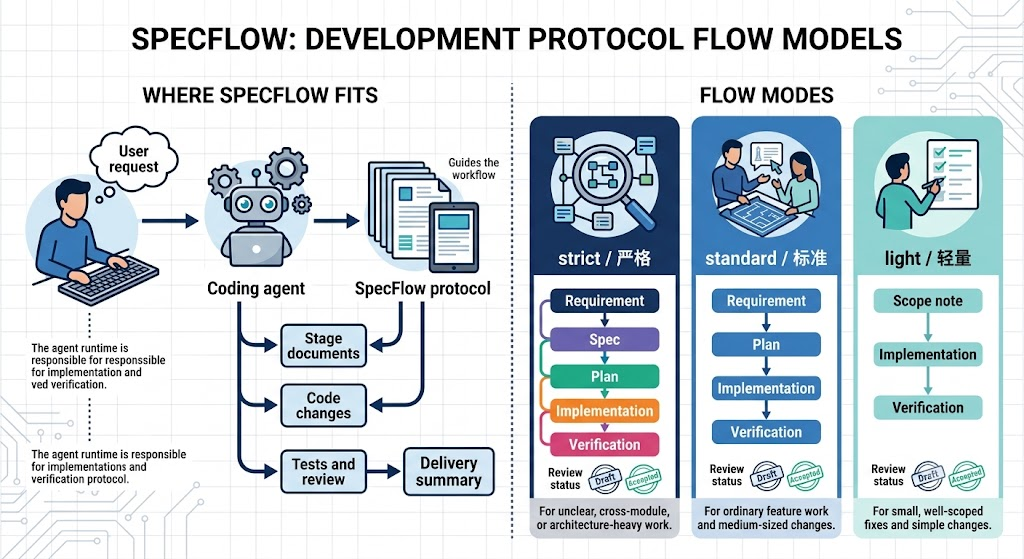
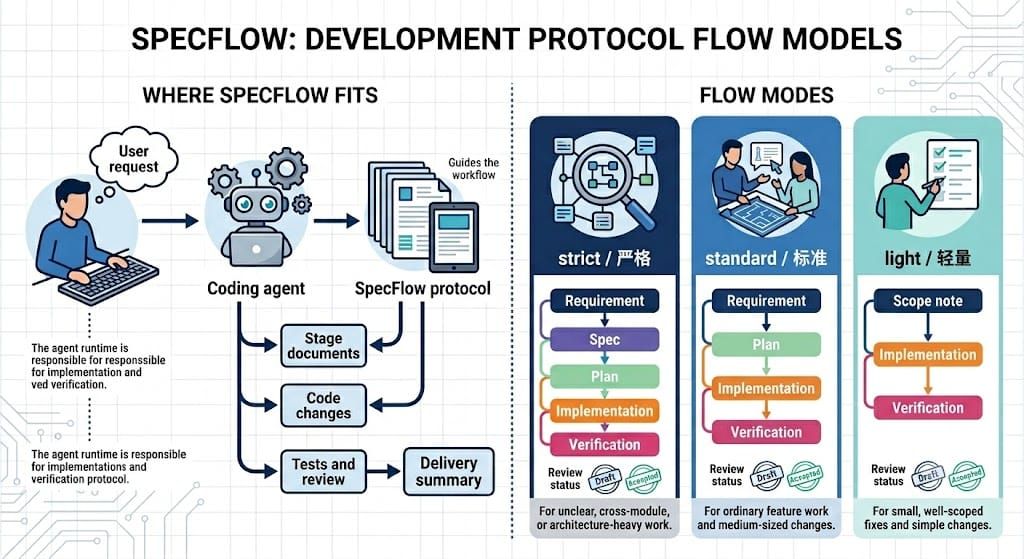
docs(specflow): clarify skill-first flow usage
- Reframe SpecFlow documentation around the agent skill as the primary interface instead of the CLI.
- Replace the light-mode "scope note" concept with a minimal Requirement record to keep all modes aligned on the same stage vocabulary.
- Document flow modes, stage transitions, review states, and handoff expectations in both English and Chinese READMEs.
- Update templates and flow diagram to match the revised Requirement-centered light mode.

diff --git a/.claude/skills/specflow/SKILL.md b/.claude/skills/specflow/SKILL.md
@@ -28,7 +28,6 @@ SpecFlow is a skill-first development protocol for coding agents. 它不是 Clau
 - `Requirement` / 需求 / 需求阶段
 - `Spec` / 规格 / 方案 / 规格阶段 / 方案阶段
 - `Plan` / 计划 / 计划阶段
-- `Scope note` / 范围说明 / 轻量范围 / scope 记录
 - `Implementation` / 实现 / 实施 / 开始实现 / 开发
 - `Verification` / 验证 / 验收 / 验证阶段
 
@@ -74,11 +73,11 @@ SpecFlow is a skill-first development protocol for coding agents. 它不是 Clau
 
 流程：
 
-1. Scope note / 范围说明
+1. Requirement / 需求
 2. Implementation / 实现
 3. Verification / 验证
 
-light / 轻量模式仍必须保留最小 scope note / 范围说明和 verification / 验证，避免变成无过程记录的直接实现。
+light / 轻量模式仍必须保留最小 requirement / 需求和 verification / 验证，避免变成无过程记录的直接实现。
 
 ## 文档位置
 
@@ -91,7 +90,7 @@ light / 轻量模式仍必须保留最小 scope note / 范围说明和 verificat
 
 同一功能的 requirement/spec/plan/verification 使用相同 `<yyyymmdd>-<feature>.md` 文件名，分别放在对应 stage 目录下。`<yyyymmdd>` 使用 8 位日期格式，例如 `20260609`；`<feature>` 用于表达需求或功能主题。
 
-standard / 标准模式可以不创建 `spec.md`。light / 轻量模式可以只创建最小 scope note / 范围说明和 `verification.md`；scope note 可以写在 `requirement.md` 中。
+standard / 标准模式可以不创建 `spec.md`。light / 轻量模式可以只创建最小 requirement / 需求和 `verification.md`；轻量需求仍写在 `docs/requirement/<yyyymmdd>-<feature>.md` 中。
 
 ## 文档隔离
 
@@ -117,7 +116,7 @@ standard / 标准模式可以不创建 `spec.md`。light / 轻量模式可以只
 
 ## 阶段流转规则
 
-- 始终告诉用户当前阶段和当前流程模式，优先使用“中文 + 英文”的形式，例如“当前：轻量模式 / light，范围说明 / Scope note”。
+- 始终告诉用户当前阶段和当前流程模式，优先使用“中文 + 英文”的形式，例如“当前：轻量模式 / light，需求 / Requirement”。
 - 默认聚焦当前阶段，直到用户接受或要求进入下一阶段。
 - 用户明确确认当前阶段时，将当前阶段文档 `Review status` 更新为 `Accepted`。
 - 用户明确要求进入后一阶段时，视为接受前一阶段；先将前一阶段文档 `Review status` 更新为 `Accepted`，再进入目标阶段。
@@ -127,14 +126,16 @@ standard / 标准模式可以不创建 `spec.md`。light / 轻量模式可以只
 
 ## Requirement / 需求阶段
 
-澄清要做什么和为什么做。
+澄清要做什么和为什么做。所有流程模式都使用 Requirement / 需求这一概念；light / 轻量模式只写短版需求，不向用户引入额外的阶段概念。
 
 职责：
 
 1. 创建或更新 `docs/requirement/<yyyymmdd>-<feature>.md`。
-2. 捕获 background、goals、non-goals、user scenarios、acceptance criteria、open questions、decisions 和 user review notes。
-3. 除非用户明确要求推进，否则不写 spec、plan 或产品代码。
-4. draft 完成后请求用户 review requirement；如果用户要求进入后一阶段，自动将 requirement 标记为 `Accepted`。
+2. strict / 严格模式和 standard / 标准模式捕获 background、goals、non-goals、user scenarios、acceptance criteria、open questions、decisions 和 user review notes。
+3. light / 轻量模式可以只记录目标、非目标、验收标准和风险/假设，但仍称为 Requirement / 需求。
+4. 除非用户明确要求推进，否则不写 spec、plan 或产品代码。
+5. draft 完成后请求用户 review requirement；如果用户要求进入后一阶段，自动将 requirement 标记为 `Accepted`。
+6. 向用户展示 requirement / 需求草稿时，除了总结已确认的需求，还必须显式提示仍需要用户关注的未决事项。这些事项包括但不限于：尚未确认的假设、影响方案选择的决策点、范围边界不清之处、验收标准中的模糊点、依赖外部条件的风险，以及可以继续推进但需要后续确认的问题。如果没有这类事项，应明确说明“暂无需要用户确认的未决事项”。
 
 ## Spec / 规格阶段
 
@@ -160,18 +161,7 @@ standard / 标准模式可以不创建 `spec.md`。light / 轻量模式可以只
 4. 如果前置 Requirement 或 Spec 不是 `Accepted`，但用户要求进入 Plan / 计划，则先将对应前置文档标记为 `Accepted`。
 5. 除非用户明确要求实现，否则不写产品代码。
 
-## Scope note / 范围说明阶段
-
-light / 轻量模式使用该阶段，用最小文档记录范围。
-
-职责：
-
-1. 创建或更新 `docs/requirement/<yyyymmdd>-<feature>.md`。
-2. 使用短版 scope note 即可，不必填完整 requirement 模板。
-3. 至少记录目标、非目标、验收标准和风险/假设。
-4. 如果用户要求开始实现，将 scope note / 范围说明标记为 `Accepted` 后进入 Implementation / 实现。
-
-light / 轻量模式推荐结构：
+light / 轻量模式推荐需求结构：
 
 ```markdown
 ## Goal
@@ -191,9 +181,9 @@ light / 轻量模式推荐结构：
 职责：
 
 1. 读取可用的 requirement/spec/plan 文档。
-2. 如果 Plan 缺失但当前是 light / 轻量模式，依据 scope note / 范围说明实现。
+2. 如果 Plan 缺失但当前是 light / 轻量模式，依据 requirement / 需求实现。
 3. 将实现范围限制在用户指令和已有文档约束内。
-4. 如果代码现实与 plan 或 scope note 冲突，报告冲突，并和用户一起更新过程文档，不要静默改变范围。
+4. 如果代码现实与 plan 或 requirement 冲突，报告冲突，并和用户一起更新过程文档，不要静默改变范围。
 
 ## Verification / 验证阶段
 

diff --git a/README.zh-CN.md b/README.zh-CN.md
@@ -10,9 +10,9 @@ SpecFlow 为 coding agent 提供轻量、可审查的软件变更流程。它定
 
 ![SpecFlow 开发流程模式](docs/assets/specflow-flow-models.jpg)
 
-- `strict` / 严格：适合需求不清、跨模块或高风险变更。
-- `standard` / 标准：适合普通功能开发。
-- `light` / 轻量：适合范围明确的小改动。
+- 严格：适合需求不清、跨模块或高风险变更。
+- 标准：适合普通功能开发。
+- 轻量：适合范围明确的小改动。
 
 每种模式都保留足够的过程记录，方便人类和后续 agent 审查“改了什么”和“为什么改”。
 
@@ -34,13 +34,73 @@ make skill
 
 ## 使用
 
-在 coding agent 工作流中作为 skill 使用：
+SpecFlow 的主要入口是 coding agent 的 skill（例如 Claude Code 中的 `/specflow`），不是 CLI。CLI 只用于初始化和诊断。
+
+当一段讨论已经准备进入可追踪的软件变更时，告诉 agent：使用哪个流程模式，以及从哪个阶段开始。
+
+### 选择流程模式
+
+- 严格：适合需求不清、跨模块或高风险变更。流程为：需求 → 规格 → 计划 → 实现 → 验证。
+- 标准：适合普通功能开发。流程为：需求 → 计划 → 实现 → 验证。
+- 轻量：适合范围明确的小改动。流程为：需求 → 实现 → 验证。
+
+轻量模式也会保留最小需求和验证，避免变成没有过程记录的直接改代码。
+
+### 启动方式
+
+先用自然语言和 agent 讨论需求，澄清目标、约束、示例和边界情况。准备进入流程时，再启动 `/specflow`。agent 会创建或更新对应阶段文档，请你审查。阶段文档使用 `Draft` 和 `Accepted` 两种状态。
+
+启动严格模式，并从需求开始：
 
 ```text
-使用 /specflow 开始这个需求。
+使用 /specflow 严格模式：为日志文件保留 7 天，开始 Requirement。
 ```
 
-skill 会选择流程模式，写入相关过程文档，并在阶段需要接受时请求 review。
+启动标准模式，并从需求开始：
+
+```text
+使用 /specflow 标准模式：新增导出报表功能，开始 Requirement。
+```
+
+启动轻量模式，处理范围明确的小改动，并从需求开始：
+
+```text
+使用 /specflow 轻量模式：统一所有模态窗的取消和确认按钮顺序，开始 Requirement。
+```
+
+在需求阶段，如果仍有假设、风险或未决问题，agent 会在阶段文档和回复中明确列出。只要你仍然要求继续，SpecFlow 会把这些内容记录为风险或假设，然后推进到目标阶段。
+
+### 推进阶段
+
+审查时直接用自然语言回复即可。你不需要输入 `next`、`approve` 这类命令式跳转；只要说明要调整什么，或要进入哪个阶段。
+
+接受当前需求，并开始规格：
+
+```text
+可以，开始 Spec。
+```
+
+接受当前需求，并开始计划：
+
+```text
+接受，开始 Plan。
+```
+
+接受前置阶段，进入实现，并在已接受范围内完成改动：
+
+```text
+确认，开始 Implementation。
+```
+
+### 交付阶段
+
+实现完成后，可以要求 agent 进入 Verification：
+
+```text
+没有问题，开始 Verification。
+```
+
+SpecFlow 不会自动执行 `git add`、`git commit` 或 `git push`。
 
 ## CLI
 
@@ -51,7 +111,7 @@ specflow init
 specflow status
 ```
 
-用户通常从 `/specflow` 开始。SpecFlow 有意避免 `next`、`approve` 这类命令驱动的流程跳转；流程由 skill 结合 agent 的正常工作完成。
+普通功能开发通常从 `/specflow` 开始；CLI 只用于初始化和状态诊断。
 
 ## 文档
 
@@ -72,22 +132,10 @@ docs/verification/<yyyymmdd>-<feature>.md
 make test
 ```
 
-等价命令：
-
-```bash
-python -m pytest -q
-```
-
 构建 source 和 wheel distributions：
 
 ```bash
 make build
-```
-
-等价命令：
-
-```bash
-python -m build
 ```
 
 ## 许可证

diff --git a/README.md b/README.md
@@ -34,13 +34,73 @@ make skill
 
 ## Use
 
-Use SpecFlow as a skill in your coding agent workflow:
+SpecFlow's primary interface is the coding-agent skill, such as `/specflow` in Claude Code, not the CLI. The CLI is only for setup and diagnostics.
+
+When a conversation is ready to become a tracked software change, tell the agent which flow mode to use and which stage to start from.
+
+### Choose a flow mode
+
+- `strict`: for unclear requirements, cross-module work, or high-risk changes. Flow: Requirement → Spec → Plan → Implementation → Verification.
+- `standard`: for ordinary feature work. Flow: Requirement → Plan → Implementation → Verification.
+- `light`: for small, clearly scoped changes. Flow: Requirement → Implementation → Verification.
+
+Light mode still keeps minimal Requirement and Verification records, so the work does not become undocumented direct coding.
+
+### Start the flow
+
+Discuss the requirement with the agent first. Clarify the goal, constraints, examples, and edge cases in normal conversation. When you are ready to enter the flow, invoke `/specflow`. The agent creates or updates the stage document and asks you to review it. Stage documents use two states: `Draft` and `Accepted`.
+
+Start strict mode from Requirement:
 
 ```text
-Use /specflow to start this requirement.
+Use /specflow strict: keep log files for 7 days, start Requirement.
 ```
 
-The skill chooses a flow mode, writes the relevant process documents, and asks for review when a stage needs acceptance.
+Start standard mode from Requirement:
+
+```text
+Use /specflow standard: add report export, start Requirement.
+```
+
+Start light mode for a small, clearly scoped change from Requirement:
+
+```text
+Use /specflow light: make all modal dialogs use the same Cancel and Confirm button order, start Requirement.
+```
+
+During the Requirement stage, if there are assumptions, risks, or open questions, the agent lists them in the stage document and in its reply. If you still ask to continue, SpecFlow records them as risks or assumptions and moves to the target stage.
+
+### Move through stages
+
+During review, reply naturally. You do not need command-style transitions like `next` or `approve`; just say what should change, or which stage you want to enter.
+
+Accept the current requirement and start Spec:
+
+```text
+Looks good, start Spec.
+```
+
+Accept the current requirement and start Plan:
+
+```text
+Accepted, start Plan.
+```
+
+Accept the prerequisite stage, enter Implementation, and keep the work within the accepted scope:
+
+```text
+Confirmed, start Implementation.
+```
+
+### Handoff
+
+After implementation is done, ask the agent to enter Verification:
+
+```text
+Looks good, start Verification.
+```
+
+SpecFlow does not automatically run `git add`, `git commit`, or `git push`.
 
 ## CLI
 
@@ -51,7 +111,7 @@ specflow init
 specflow status
 ```
 
-Users normally start from `/specflow`. SpecFlow intentionally avoids command-driven workflow transitions such as `next` or `approve`; the skill manages the process through normal agent work.
+For normal feature work, start from `/specflow`; use the CLI only for setup and status diagnostics.
 
 ## Documents
 
@@ -72,22 +132,10 @@ New documents use only two review states: `Draft` and `Accepted`.
 make test
 ```
 
-Equivalent command:
-
-```bash
-python -m pytest -q
-```
-
 Build source and wheel distributions:
 
 ```bash
 make build
-```
-
-Equivalent command:
-
-```bash
-python -m build
 ```
 
 ## License

diff --git a/.claude/skills/specflow/template/requirement.md b/.claude/skills/specflow/template/requirement.md
@@ -8,7 +8,7 @@ Draft
 
 strict / 严格 / standard / 标准 / light / 轻量
 
-light / 轻量模式可使用短版 Scope note / 范围说明，只保留 Goal / 目标、Non-goal / 非目标、Acceptance / 验收、Risk / 风险。
+light / 轻量模式可使用短版 Requirement / 需求，只保留 Goal / 目标、Non-goal / 非目标、Acceptance / 验收、Risk / 风险。
 
 ## Background / 背景
 
